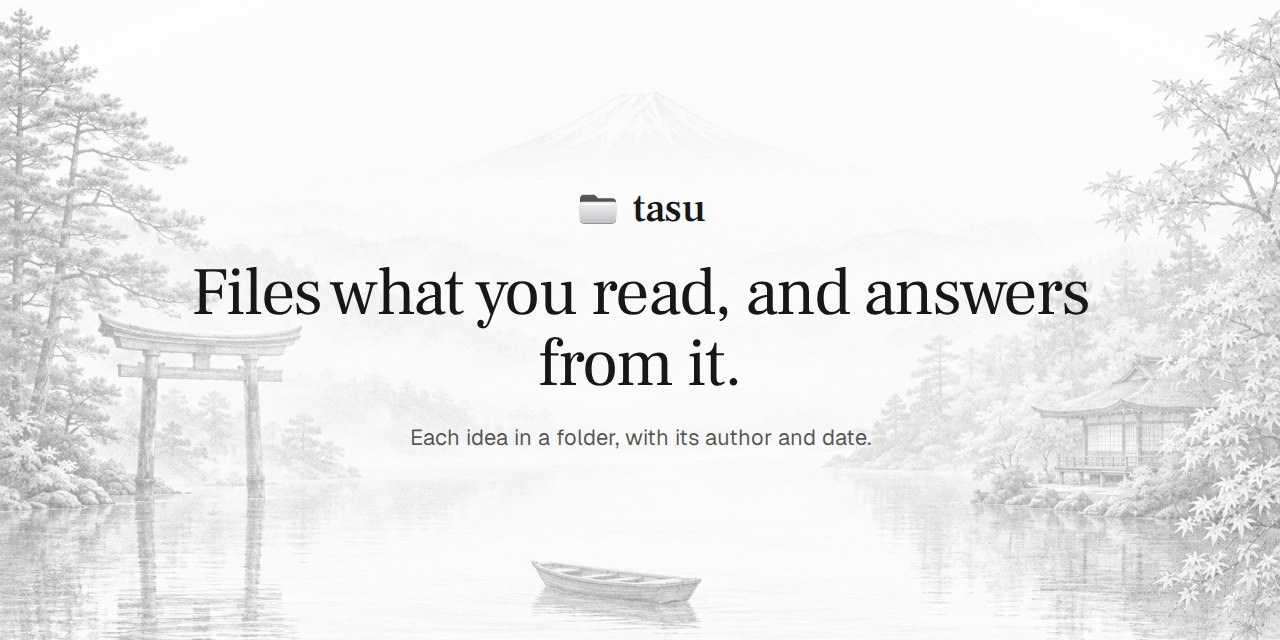
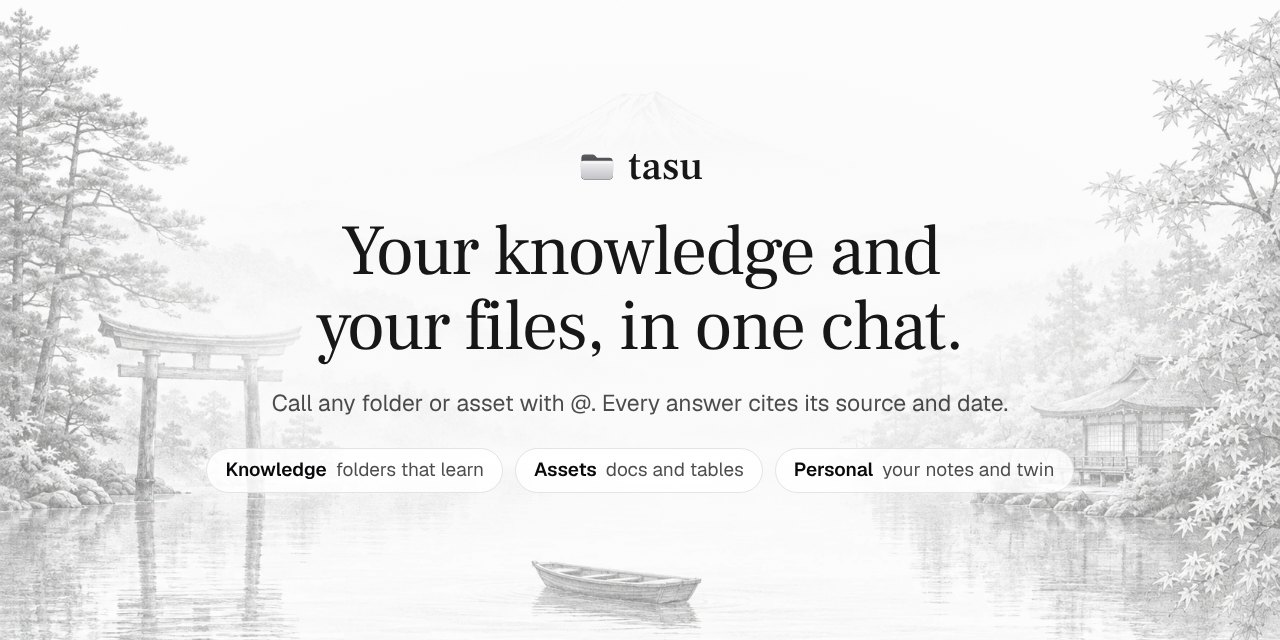
Landing and link preview: knowledge, assets and personal, in one chat
The headline, the sub line, the page title and the link preview image say
what the app is now: folders that learn, assets a chat reads and updates, and
the personal folder, all called with @.

Claude-Session: https://claude.ai/code/session_01NRWPtT3uQhafrf1yBXPVRY

Changed region(s): [[0.1562, 0.2188, 0.875, 0.7812]]

diff --git a/app/index.html b/app/index.html
@@ -3,17 +3,17 @@
 <head>
 <meta charset="utf-8">
 <meta name="viewport" content="width=device-width, initial-scale=1, viewport-fit=cover">
-<title>Tasu: files what you read, and answers from it</title>
-<meta name="description" content="Drop a talk, a PDF or a link. Each idea lands in a folder with its author and date. Ask, and every answer cites them.">
+<title>Tasu: your knowledge and your files, in one chat</title>
+<meta name="description" content="Folders learn from each talk, PDF or link, with its author and date. Assets keep your docs and tables. Call any of them with @, and every answer cites it.">
 <meta name="theme-color" content="#fafafa">
-<meta property="og:title" content="Tasu: files what you read, and answers from it">
-<meta property="og:description" content="Drop a talk, a PDF or a link. Each idea lands in a folder with its author and date. Ask, and every answer cites them.">
-<meta property="og:image" content="https://tasu.ai/og.jpg">
+<meta property="og:title" content="Tasu: your knowledge and your files, in one chat">
+<meta property="og:description" content="Folders learn from each talk, PDF or link, with its author and date. Assets keep your docs and tables. Call any of them with @, and every answer cites it.">
+<meta property="og:image" content="https://tasu.ai/og.jpg?v=2">
 <meta property="og:image:width" content="1280">
 <meta property="og:image:height" content="640">
 <meta property="og:url" content="https://tasu.ai/">
 <meta name="twitter:card" content="summary_large_image">
-<meta name="twitter:image" content="https://tasu.ai/og.jpg">
+<meta name="twitter:image" content="https://tasu.ai/og.jpg?v=2">
 <link rel="icon" href="/brand/tasu.svg" type="image/svg+xml">
 <link rel="icon" href="/brand/tasu-64.png" type="image/png" sizes="64x64">
 <link rel="apple-touch-icon" href="/brand/tasu-180.png">
@@ -80,7 +80,12 @@
   .sub{ margin-top:22px; max-width:620px; font:400 clamp(16px, 1.6vw, 19px)/1.55 var(--sans); color:var(--sub); text-wrap:pretty; }
 
   /* ---- the one field ---- */
-  .card{ margin-top:40px; width:100%; max-width:620px; background:var(--card); border:1px solid var(--line); border-radius:16px; text-align:left;
+  /* What a chat can use, in three: the folders, the assets, the personal folder. */
+  .points{ list-style:none; margin-top:20px; display:flex; flex-wrap:wrap; justify-content:center; gap:8px; max-width:680px; }
+  .points li{ display:flex; align-items:baseline; gap:7px; padding:6px 12px; border:1px solid var(--line); border-radius:999px; background:rgba(255,255,255,.72);
+    font:400 13.5px/1.35 var(--sans); color:var(--sub); }
+  .points b{ font-weight:600; color:var(--ink); }
+  .card{ margin-top:32px; width:100%; max-width:620px; background:var(--card); border:1px solid var(--line); border-radius:16px; text-align:left;
     box-shadow:0 4px 16px -2px rgba(0,0,0,.05), 0 2px 6px rgba(0,0,0,.025); transition:box-shadow .2s var(--ease), border-color .2s var(--ease); }
   .card:focus-within{ border-color:#d4d4d8; box-shadow:0 8px 30px -4px rgba(0,0,0,.07), 0 4px 10px rgba(0,0,0,.03); }
   .row{ display:flex; align-items:center; gap:12px; padding:14px 14px 14px 18px; }
@@ -149,8 +154,13 @@
 <main class="hero">
   <div class="bg" aria-hidden="true"></div>
   <div class="in-hero">
-    <h1 class="rise">Files what you read, and answers from it.</h1>
-    <p class="sub rise" style="--d:80">Drop a talk, a PDF or a link. Each idea lands in a folder with its author and date. Ask, and every answer cites them.</p>
+    <h1 class="rise">Your knowledge and your files, in one chat.</h1>
+    <p class="sub rise" style="--d:80">Folders learn from each talk, PDF or link, with its author and date. Assets keep your docs and tables. Call any of them with @, and every answer cites it.</p>
+    <ul class="points rise" style="--d:120" aria-label="What a chat can use">
+      <li><b>Knowledge</b>folders that learn from each drop</li>
+      <li><b>Assets</b>docs and tables a chat updates</li>
+      <li><b>Personal</b>your notes, a daily log, your twin</li>
+    </ul>
     <form class="card rise" style="--d:160" id="enter" autocomplete="on">
       <div class="row">
         <svg viewBox="0 0 24 24" aria-hidden="true"><rect x="5" y="10.5" width="14" height="10" rx="2.5"/><path d="M8.5 10.5V8a3.5 3.5 0 0 1 7 0v2.5"/></svg>

diff --git a/app/about.html b/app/about.html
@@ -8,7 +8,7 @@
 <meta name="theme-color" content="#fafafa">
 <meta property="og:title" content="Tasu: the white paper">
 <meta property="og:description" content="The model, the two pipelines, and the limits that keep a folder fast at any size.">
-<meta property="og:image" content="https://tasu.ai/og.jpg">
+<meta property="og:image" content="https://tasu.ai/og.jpg?v=2">
 <meta property="og:url" content="https://tasu.ai/about">
 <meta name="twitter:card" content="summary_large_image">
 <link rel="icon" href="/brand/tasu.svg" type="image/svg+xml">

diff --git a/README.md b/README.md
@@ -4,9 +4,9 @@
 
 # Tasu
 
-**Files what you read, and answers from it.**
+**Your knowledge and your files, in one chat.**
 
-Drop a talk, a PDF or a link. Each idea lands in a folder with its author and date. Ask, and every answer cites them.
+Folders learn from each talk, PDF or link, with its author and date. Assets keep your docs and tables. Call any of them with @, and every answer cites it.
 
 [**Open tasu.ai**](https://tasu.ai) &nbsp;·&nbsp; [Read the white paper](https://tasu.ai/about) &nbsp;·&nbsp; [Run your own](#run-your-own)
 
